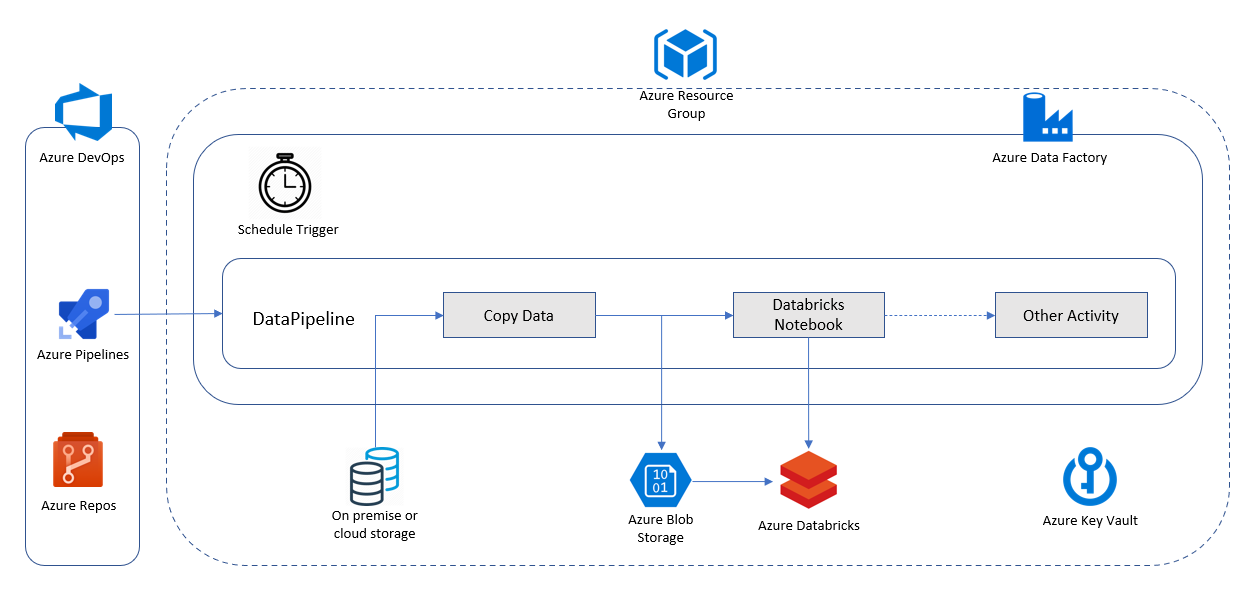
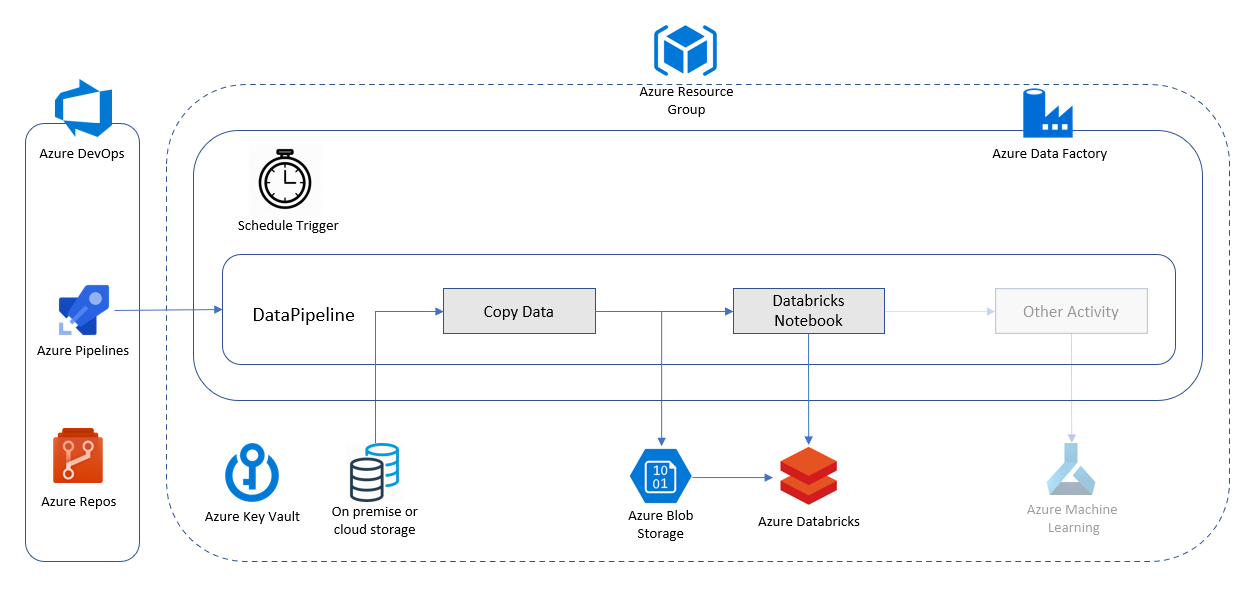
Update architecture

diff --git a/README.md b/README.md
@@ -11,8 +11,8 @@
     - [Azure Key Vault](#azure-key-vault)
 - [Architecture](#architecture)
     - [Version control](#version-control)
-    - [Continueous Integration](#continueous-integration)
-    - [Contineous Deployment](#contineous-deployment)
+    - [Continuous Integration](#continuous-integration)
+    - [Continuous Deployment](#continuous-deployment)
     - [Secured connections](#secured-connections)
     - [Future improvement](#future-improvement)
 - [Get started with the sample project](#get-started-with-the-sample-project)
@@ -32,7 +32,7 @@ In this article, we'll setup a data pipeline using Azure DevOps, Azure Data Fact
 # Technology stack
 The following Azure services are to be used to implement the data pipeline.
 ## Azure DevOps
-Azure DevOps provides developer services to support teams to plan work, collaborate on code development, and build and deploy applications. Developers can work in the cloud using Azure DevOps Services or on-premises using Azure DevOps Server. Here we'll use Azure DevOps Services in the cloud. More specificlly, the following services provided by Azure DevOps will be used for setting up the solution:
+Azure DevOps provides developer services to support teams to plan work, collaborate on code development, and build and deploy applications. Developers can work in the cloud using Azure DevOps Services or on-premises using Azure DevOps Server. Here we'll use Azure DevOps Services in the cloud. More specifically, the following services provided by Azure DevOps will be used for setting up the solution:
 - **Azure Repos** provides Git repositories for source control of your code
 - **Azure Pipelines** provides build and release services to support continuous integration and delivery of your apps
 - **Azure Artifacts** allows teams to share Maven, npm, and NuGet packages from public and private sources and integrate package sharing into your CI/CD pipelines
@@ -57,11 +57,11 @@ The second activity, "Databricks Notebook" will activate a Jupyter Notebook file
 
 On Azure Databricks, we can use Jupyter Notebook files to prepare the data, train a machine learning model and consume it. 
 
-The pipeline can also be extended by adding more activities in order to do more data processing jobs. 
+The pipeline can also be extended by adding more activities to do more data processing jobs. For instance, as the diagram shows, we can add a "Machine Learning Execute Pipeline Activity" to trigger an Azure Machine Learning pipeline to train, evaluate and register a machine learning model. 
 
 Azure Repos works for source code version control. 
 
-Azure Pipelines implements CI/CD pipelines for this use case. Starting from an Azure Resource Group for 'Development', if needed, Azure Pipelines can help quickly deploy another Azure Resource Group for 'Test' or 'Production' by using different versions of variables and parameters.
+Azure Pipelines implements CI/CD pipelines for this use case. Starting from an Azure Resource Group for "Development", if needed, Azure Pipelines can help quickly deploy another Azure Resource Group for "Test" or "Production" by using different versions of variables and parameters.
 
 ## Version control
 Azure Repos is used for the source file version control.
@@ -69,23 +69,23 @@ Azure Repos is used for the source file version control.
 Azure Data Factory can be integrated with an Azure Repos Git organization repository for source control, collaboration, versioning, and so on. In order to do version control of Azure Data Factory pipelines, we can create a development data factory configured with Azure Repos Git, allowing relevant developers to author Azure Data Factory resources like pipelines and datasets. The developers can make changes in their feature branches and create a pull request from their feature branch to the master or collaboration branch to get their changes reviewed by peers. After a pull request is approved and changes are merged in the master branch, the changes can be published as Azure Resource Manager templates to "adf-publish" branch in the development factory.
 
 Also, Git version control can be enabled for the Jupyter Notebook files running on Azure Databricks.
-## Continueous Integration
+## Continuous Integration
 Continuous integration (CI) is a development practice where developers integrate code into a shared repository frequently, preferably several times a day.
 
 The sample project doesn't include the process of code linting and unit tests which can be done by using flake8 and pytest.
 
 In the CI stage of this sample, the pipeline "checkout" the notebook file and publish it as an artifact named "notebook". In the meantime, the Azure Data Factory pipeline Resource Manager templates are also checked out through "adf_publish" branch and published as "adf-pipelines" artifact. Those two artifacts will be used by the following steps. 
-## Contineous Deployment
+## Continuous Deployment
 Continuous deployment (CD) is a strategy for software releases wherein any code commit that passes the automated testing phase is automatically released into the production environment, making changes that are visible to the software's users.
 
-In the CD stage, the generated artifact "notebook" will be deployed to Azure Databricks and the artifact "adf-pipeline" will be deployed to Azure Data Factory. Please note that we can deploy those artifacts into different Azure Databricks and Azure Data Factory environments by inputing different parameters defined in Azure DevOps Variable Group.
+In the CD stage, the generated artifact "notebook" will be deployed to Azure Databricks and the artifact "adf-pipeline" will be deployed to Azure Data Factory. Please note that we can deploy those artifacts into different Azure Databricks and Azure Data Factory environments by inputting different parameters defined in Azure DevOps Variable Group.
 This feature can be used to implement an A/B testing environment by providing different datasets, libraries, algorithms, tuning methods for training different machine learning models.  
 ## Secured connections
 Since we will integration Azure DevOps, Azure Data Factory, Azure Databricks and Azure Blob Storage together, we need to use Azure Databricks personal access token (PAT), Azure Blob Storage access keys. 
 
 The best solution is to have these secret tokens or keys stored in Azure Key Vault. Why? Because Azure Key Vault can help us securely store and manage sensitive information such as keys, password, certificates, etc. in a centralized storage which are safeguarded by industry-standard algorithms, key lengths, and even hardware security modules. This prevents information exposure through source code, a common mistake that many developers make. Many developers leave sensitive information such as database connection strings, passwords, private keys, etc. in their source code which when gained by malicious users can result in undesired consequences. Access to a key vault requires proper authentication and authorization and with RBAC, we can have even fine granular control who has what permissions over the sensitive data.
 
-Within Azure DevOps, we can ceate Variable Groups which contain variables linking to secrets from Azure Key Vaults. In this way, these secret tokens and keys can be used through variables in Azure DevOps pipelines, rather than being input into the source code with sensitive information.
+Within Azure DevOps, we can create Variable Groups which contain variables linking to secrets from Azure Key Vaults. In this way, these secret tokens and keys can be used through variables in Azure DevOps pipelines, rather than being input into the source code with sensitive information.
 
 In order to make Azure Data Factory able to access Azure Blob Storage and Azure Databricks, we need to create linked services which are able to connect to Azure Key Vault to get storage access key and Azure Databricks PAT.
 
@@ -93,7 +93,8 @@ Additionally, Azure Databricks needs to configure its secure scope for the Azure
 
 Meanwhile, 'Get' and 'List' access policies for the Azure Data Factory and Azure Databricks need to be set for the Azure Key Vault. 
 ## Future improvement
-If you want to build an end to end machine learning pipeline, you can consider another better solution, which is using Azure Data Factory "Machine Learning" activity to execute an Azure Machine Learning pipeline that will handle the steps such as model training, model evaluation and registration. 
+If you want to build an end to end machine learning pipeline, you can consider another better solution, which is to use Azure Data Factory "Machine Learning Execute Pipeline" activity to run an Azure Machine Learning pipeline that handles the steps such as model training, model evaluation and registration. Then Azure Pipelines can be used for orchistrating deploying the model in Azure Container Instance, Azure WebApp or Azure Kubernetes Service.
+[MLOps with Azure ML](https://github.com/Microsoft/MLOpsPython) is a highly recommended open source project for you to start that kind of work.   
 
 # Get started with the sample project
 ## Preparation
@@ -157,5 +158,5 @@ In this article, we introduced how to set up a CI/CD data pipeline using Azure D
 - [Branching policies](https://docs.microsoft.com/ja-jp/azure/devops/repos/git/branch-policies-overview?view=azure-devops&viewFallbackFrom=azdevops)
 - [Continuous integration and delivery in Azure Data Factory](https://docs.microsoft.com/en-us/azure/data-factory/continuous-integration-deployment)
 - [DevOps for a data ingestion pipeline](https://docs.microsoft.com/en-us/azure/machine-learning/how-to-cicd-data-ingestion?view=azure-ml-py)
-- [DevOps In Azure With Databricks And Data Factory
-](https://cloudarchitected.com/2019/04/devops-in-azure-with-databricks-and-data-factory/)
+- [MLOps with Azure ML](https://github.com/Microsoft/MLOpsPython)
+- [DevOps In Azure With Databricks And Data Factory](https://cloudarchitected.com/2019/04/devops-in-azure-with-databricks-and-data-factory/)
